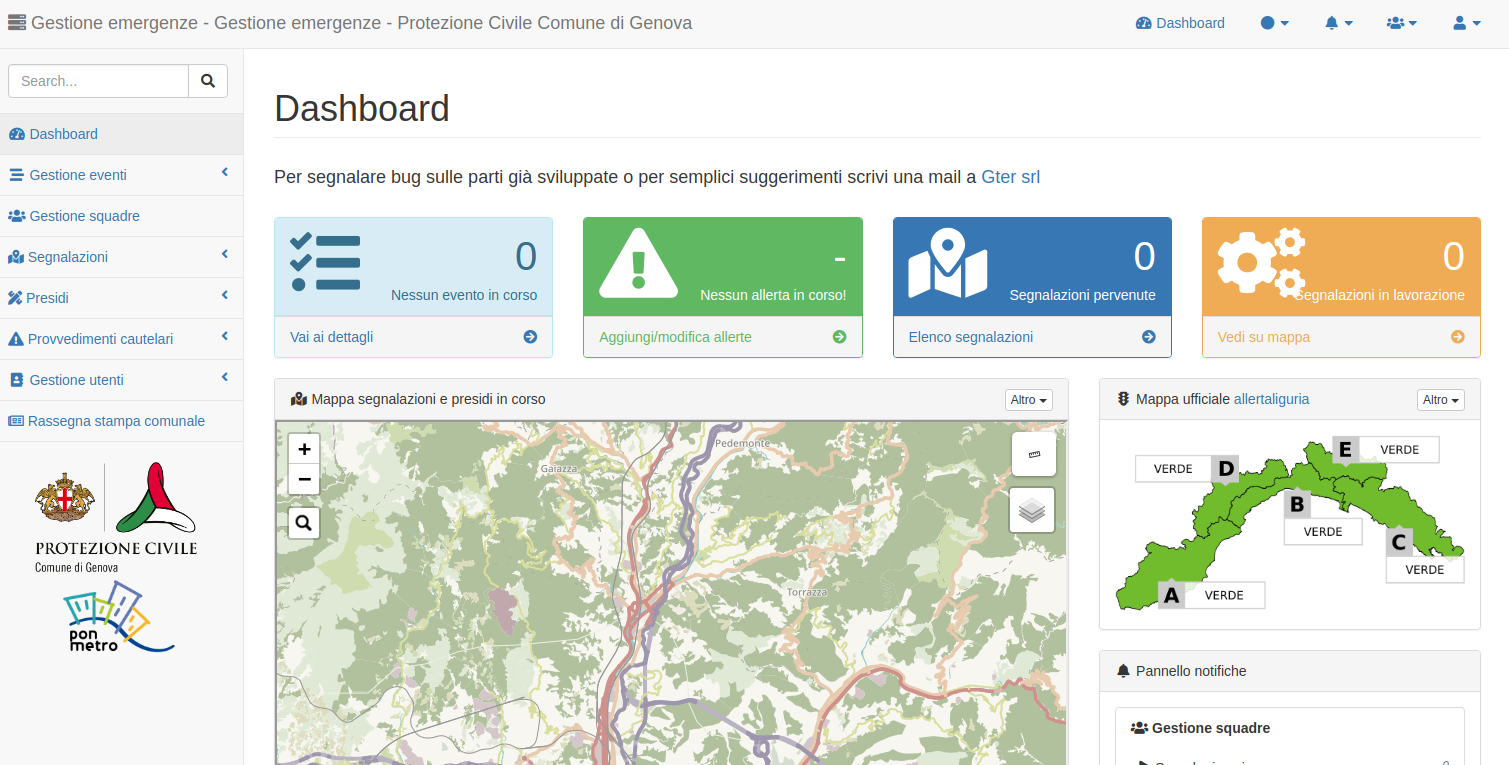
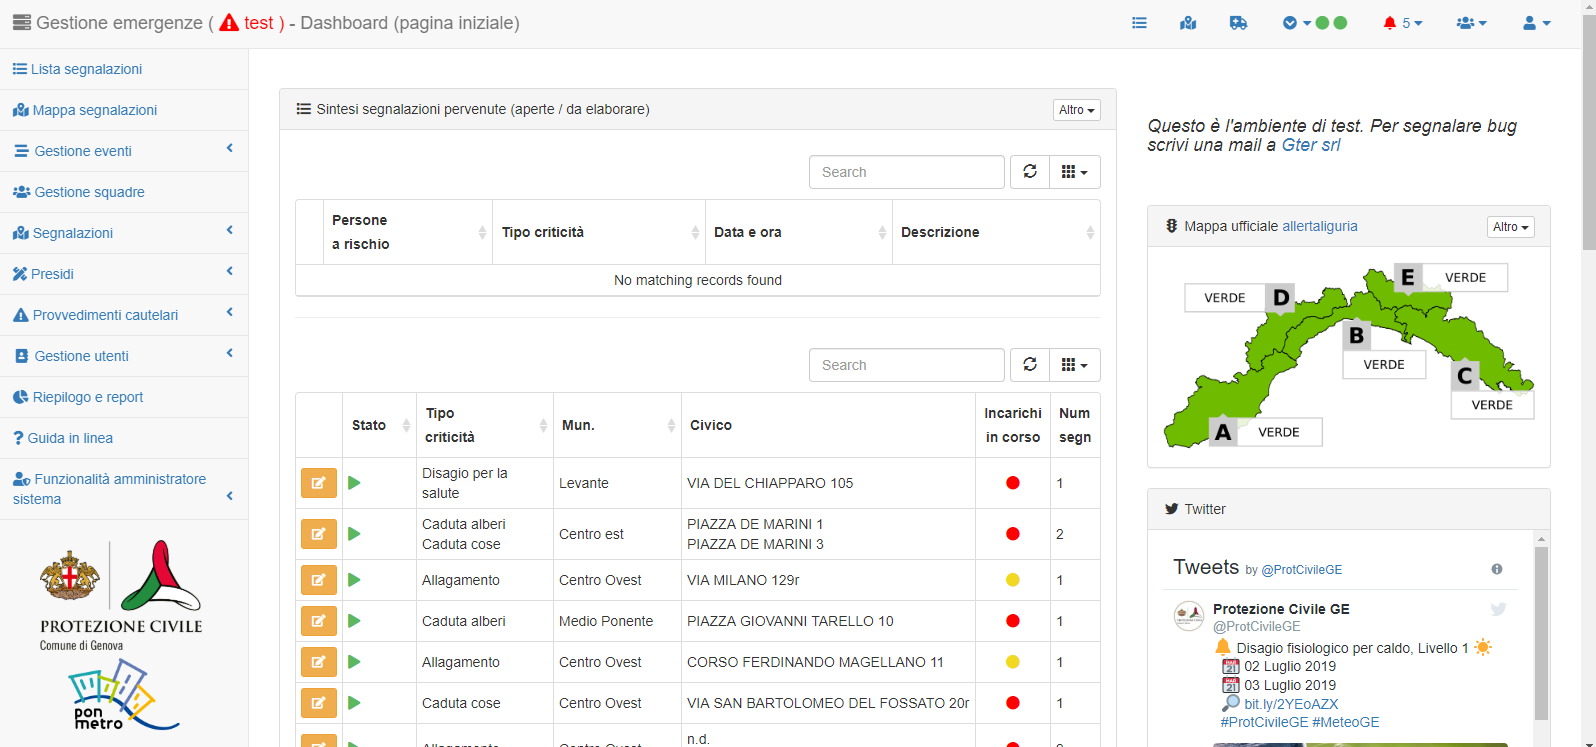
update introduzione

diff --git a/intro.rst b/intro.rst
@@ -8,7 +8,7 @@ Scopo del sistema di Gestione Emergenze
 Da alcuni anni la Protezione Civile del Comune di Genova ha deciso di dotarsi di un proprio sistema informativo
 per la gestione delle emergenze. In questo contesto, l’informazione territoriale gioca un ruolo fondamentale.
 
-.. image:: img/legenda_mappa.png
+.. image:: img/dashboard.PNG
 
 
 Si tratta di un applicativo web che permette la condivisione delle informazioni fra i vari soggetti sia interni
@@ -43,4 +43,17 @@ mentre in alto compare un menù con le principali notifiche del sistema.
 
 Nella prima pagina definita *dashboard* e sempre raggiungibile cliccando sia sul menù
 a sinistra che sulla toolbar delle notifiche, si cerca di fornire a tutti gli utenti
-un riepilogo sintetico di quanto sta accadendo sul territorio.
+un riepilogo sintetico di quanto sta accadendo sul territorio:
+
+* elenco delle segnalazioni aperte con possibilità di accesso rapido alla pagina con i dettagli di ciascuna segnalazione;
+* mappa di sintesi;
+
+.. image:: img/legenda_mappa.png
+
+* elenco dei presidi in corso;
+
+* alcuni conteggi di massima;
+
+* mappa con le allerte di Regione Liguria (in tempo reale dal sito http://www.allertaliguria.gov.it/) 
+
+* elenco dei tweet della pagina di Protezione Civile comunale
